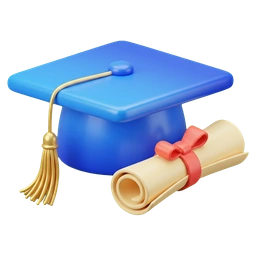
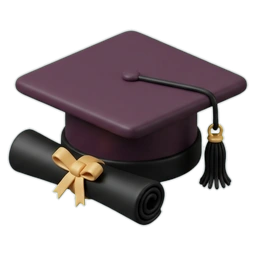
Beneficios: iconos de "Para quien es" en morado/negro
Reemplaza los 4 iconos 3D a color libre de la ronda anterior por una
version en la paleta del sitio (--purple-dark + negro, con un acento
chico dorado/azul por icono), a pedido del usuario. Mismo pipeline de
recorte por chroma key, mismos nombres de archivo, sin cambios en
index.html/CSS.

diff --git a/scripts/recortar-iconos-audiencia.py b/scripts/recortar-iconos-audiencia.py
@@ -14,10 +14,10 @@ from scipy import ndimage as ndi
 
 # archivo original de Gemini -> ícono final
 MAPA = {
-    'Gemini_Generated_Image_alvz4halvz4halvz.jpg': 'icon-maletin',
-    'Gemini_Generated_Image_i4v3m3i4v3m3i4v3.jpg': 'icon-graduacion',
-    'Gemini_Generated_Image_swob3cswob3cswob.jpg': 'icon-equipo',
-    'Gemini_Generated_Image_w9fixqw9fixqw9fi.jpg': 'icon-reloj-fatiga',
+    'Gemini_Generated_Image_8i1rvd8i1rvd8i1r.jpg': 'icon-graduacion',
+    'Gemini_Generated_Image_w14bzrw14bzrw14b.jpg': 'icon-maletin',
+    'Gemini_Generated_Image_n187ggn187ggn187.jpg': 'icon-reloj-fatiga',
+    'Gemini_Generated_Image_esttlkesttlkestt.jpg': 'icon-equipo',
 }
 SALIDA = 'img/Iconos'
 TAM = 256

diff --git a/memoria.md b/memoria.md
@@ -261,6 +261,22 @@ próximos pasos).
     Pilares (ver `#lam-04`) y las almendras siguen usándose en la tarjeta
     del login (`.miplan-locked-fruit is-almonds`), así que ningún asset
     quedó huérfano.
+- **Íconos 3D de "Para quién es" en morado/negro (`#lam-05`, sesión
+  2026-09-19)**: pedido del usuario tras ver la versión a color de la
+  ronda anterior — mismo estilo clay 3D isométrico, pero con la paleta
+  del sitio (`--purple-dark` `#4B2E45` para el cuerpo, negro para
+  agarres/detalles, un acento chico dorado/azul suave por ícono) en vez
+  de colores libres. Mismos 4 archivos, mismo mapeo de significado,
+  mismo pipeline: `scripts/recortar-iconos-audiencia.py` (chroma key por
+  dominancia de verde, fondo `#00FF00` en los JPG de Gemini) sobre
+  `img/Iconos/{icon-maletin,icon-graduacion,icon-equipo,
+  icon-reloj-fatiga}.webp` — se sobrescriben los mismos nombres, sin
+  tocar `index.html`/CSS. Verificado a mano (composición sobre blanco y
+  negro): recorte limpio, sin aro ni halo verde en ninguno de los 4.
+  **Sin verificar en navegador real**: no se pudo instalar Playwright en
+  esta sesión (sin red a los dominios de descarga del navegador). Las 4
+  imágenes de referencia de Gemini no quedaron versionadas en el repo
+  (igual que en la ronda anterior de estos mismos íconos).
 - **Botón "Actualizar" en "Tu estado actual" + frutas solo con plan
   (`mi-plan.html`, sesión 2026-09-19)**:
   - `#btnActualizarEstado` (`.bar-chart-refresh`) vive en el encabezado de
@@ -983,9 +999,12 @@ próximos pasos).
 - **Beneficios (`#lam-05`, "Para quién es")**: fondo `--panel` (lavanda
   claro, heredado de `section.dark`). Los 4 destinatarios son una lista
   vertical (`.ben-audience-grid`/`.ben-audience-item`, flex) con ícono
-  propio a la izquierda del texto. **Desde 2026-09-19 son ilustraciones 3D
-  a color** (generadas con Gemini sobre fondo verde chroma y recortadas con
-  `scripts/recortar-iconos-audiencia.py`): `img/Iconos/icon-maletin.webp`,
+  propio a la izquierda del texto. **Desde 2026-09-19 son ilustraciones 3D**
+  (generadas con Gemini sobre fondo verde chroma y recortadas con
+  `scripts/recortar-iconos-audiencia.py`) — primera ronda a color libre,
+  **reemplazada en la misma sesión** por una 2ª ronda en la paleta del
+  sitio (morado `--purple-dark`/negro, ver bullet "Íconos 3D de 'Para
+  quién es' en morado/negro" más arriba, que tiene el detalle): `img/Iconos/icon-maletin.webp`,
   `icon-graduacion.webp`, `icon-equipo.webp`, `icon-reloj-fatiga.webp`
   (256×256, alfa real, sin destellos sueltos salvo las gotas/líneas del
   cronómetro). Tamaños en variables sobre `.ben-audience-grid`:

diff --git a/changelog.md b/changelog.md
@@ -11,6 +11,38 @@
 > rediseño del dashboard, la animación de los anillos de Método, y el
 > proceso completo de Visión).
 
+## 2026-09-19 — Beneficios: íconos de "Para quién es" en morado/negro
+
+El usuario vio los 4 íconos 3D a color de la ronda anterior y pidió que
+usen la paleta del sitio en vez de colores libres: "morado y negro así
+como el título, pero podemos usar otros colores como para cositas
+pequeñas del ícono". Se armaron 4 prompts nuevos para Gemini (mismo
+estilo clay 3D isométrico, cuerpo en `--purple-dark` `#4B2E45`,
+agarres/detalles en negro, un acento chico dorado o azul suave por
+ícono, fondo verde puro `#00FF00` para poder recortarlos igual que la
+ronda anterior) y el usuario subió los 4 JPG.
+
+- `scripts/recortar-iconos-audiencia.py`: mismo pipeline sin cambios de
+  lógica, solo se actualizó `MAPA` con los nombres de archivo nuevos
+  (las imágenes de Gemini no quedan versionadas en el repo, igual que en
+  la ronda anterior).
+- Se sobrescriben los mismos 4 `img/Iconos/{icon-maletin,icon-graduacion,
+  icon-equipo,icon-reloj-fatiga}.webp` (256×256, alfa real) — sin cambios
+  en `index.html` ni `css/styles.css`, mismo mapeo de significado que
+  antes (maletín=profesionales, birrete=estudiantes, 3 personas=equipos,
+  cronómetro+gotas=fatiga).
+- Verificado a mano: composición de los 4 sobre fondo blanco y sobre
+  fondo oscuro (`#141414`), sin aro ni halo verde en ninguno. Peso final
+  12–15 KB cada uno (antes 11–19 KB, sin patrón claro de por qué varía —
+  depende del detalle de cada imagen fuente).
+- **No se pudo verificar en navegador real**: intento de instalar
+  Playwright en esta sesión falló por falta de red al dominio de
+  descarga del navegador (`deb.nodesource.com`, 403); no hay Playwright
+  ni ninguna otra sesión previa con browser instalado en este entorno.
+  Falta confirmar en el sitio real que el ícono del reloj se sigue
+  leyendo bien junto a las gotas ahora que todo el cuerpo es morado
+  oscuro (antes tenía más contraste de color entre partes).
+
 ## 2026-09-19 — Beneficios: fotos de perfil de los 2 testimonios
 
 El usuario generó los retratos con Gemini (a partir de los prompts del
